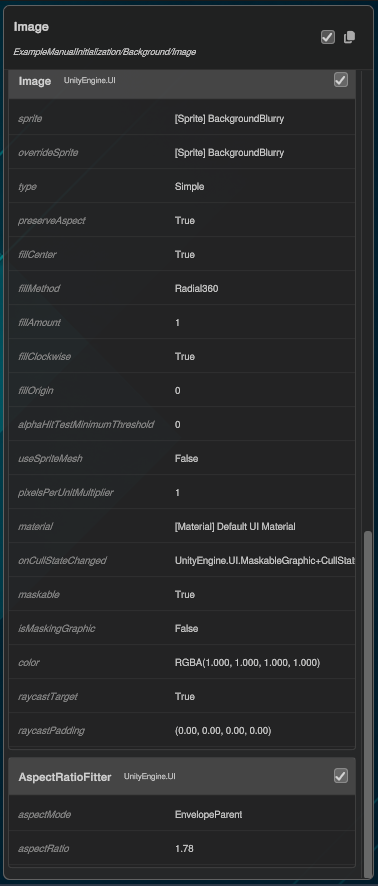
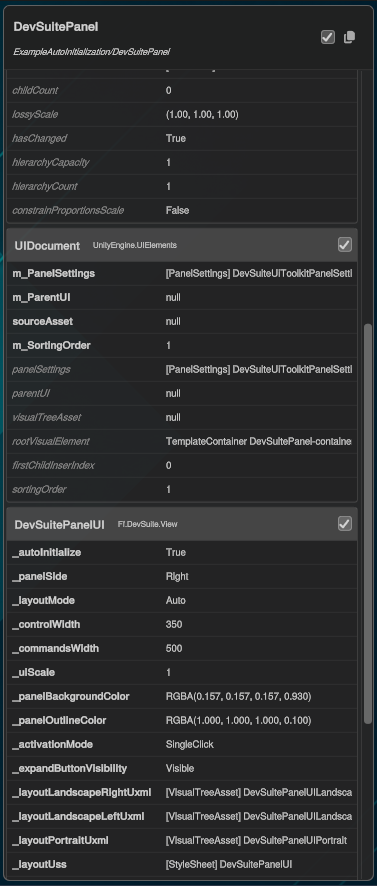
fix(inspector): fixed missing serializable fields in the Inspector panel

Changed region(s): [[0.0, 0.0, 1.0, 1.0], [0.0292, 0.0, 0.0584, 0.0305]]

diff --git a/DevSuite/Assets/DevSuite/Runtime/Utilities/DevSuiteUtils.cs b/DevSuite/Assets/DevSuite/Runtime/Utilities/DevSuiteUtils.cs
@@ -243,10 +243,38 @@ namespace Ff.DevSuite
             _getFieldsAndPropertiesCache ??= new LazyCache<Type, MemberInfo[]>(
                 t =>
                 {
-                    var res = t.GetFields(BindingFlags.Public | BindingFlags.Instance | BindingFlags.FlattenHierarchy).Cast<MemberInfo>()
-                        .Concat(t.GetProperties(BindingFlags.Public | BindingFlags.Instance | BindingFlags.FlattenHierarchy).Where(p => p.CanWrite))
-                        .ToArray();
-                    return res;
+                    var members = new List<MemberInfo>();
+                    var current = t;
+                    var seenNames = new HashSet<string>();
+
+                    while (current != null &&
+                           current != typeof(MonoBehaviour) &&
+                           current != typeof(Behaviour) &&
+                           current != typeof(Component) &&
+                           current != typeof(UnityEngine.Object))
+                    {
+                        var fields = current.GetFields(BindingFlags.Public | BindingFlags.NonPublic | BindingFlags.Instance | BindingFlags.DeclaredOnly);
+                        foreach (var field in fields)
+                        {
+                            if (seenNames.Add(field.Name))
+                            {
+                                members.Add(field);
+                            }
+                        }
+
+                        var properties = current.GetProperties(BindingFlags.Public | BindingFlags.NonPublic | BindingFlags.Instance | BindingFlags.DeclaredOnly);
+                        foreach (var prop in properties)
+                        {
+                            if (seenNames.Add(prop.Name))
+                            {
+                                members.Add(prop);
+                            }
+                        }
+
+                        current = current.BaseType;
+                    }
+
+                    return members.ToArray();
                 }
             );
 

diff --git a/DevSuite/Assets/DevSuite/Runtime/View/Panel/DevSuitePanelUI.cs b/DevSuite/Assets/DevSuite/Runtime/View/Panel/DevSuitePanelUI.cs
@@ -4,7 +4,7 @@ using System;
 
 namespace Ff.DevSuite.View
 {
-    [DefaultExecutionOrder(-1000)]
+    [DefaultExecutionOrder(-99)]
     [RequireComponent(typeof(UIDocument))]
     internal class DevSuitePanelUI : MonoBehaviour
     {
@@ -82,7 +82,7 @@ namespace Ff.DevSuite.View
 
         private DevSuiteContext _context;
 
-        private void Start()
+        private void Awake()
         {
             if (_autoInitialize)
             {

diff --git a/DevSuite/Assets/DevSuite/Runtime/View/Inspector/InspectorPanelView.cs b/DevSuite/Assets/DevSuite/Runtime/View/Inspector/InspectorPanelView.cs
@@ -76,7 +76,7 @@ namespace Ff.DevSuite.View
                     {
                         serializableFields.Add(field);
                     }
-                    else
+                    else if (field.IsPublic)
                     {
                         otherMembers.Add(field);
                     }

diff --git a/README.md b/README.md
@@ -100,9 +100,9 @@ DevSuite serves as a modern, 100% free, and open-source alternative to popular U
    ```text
    https://github.com/fairfun/devsuite-for-unity.git?path=DevSuite/Assets/DevSuite
    ```
-   To pin a specific version, append the tag (e.g. `#0.2.0`):
+   To pin a specific version, append the tag (e.g. `#0.2.1`):
    ```text
-   https://github.com/fairfun/devsuite-for-unity.git?path=DevSuite/Assets/DevSuite#0.2.0
+   https://github.com/fairfun/devsuite-for-unity.git?path=DevSuite/Assets/DevSuite#0.2.1
    ```
 ## Getting Started
 
